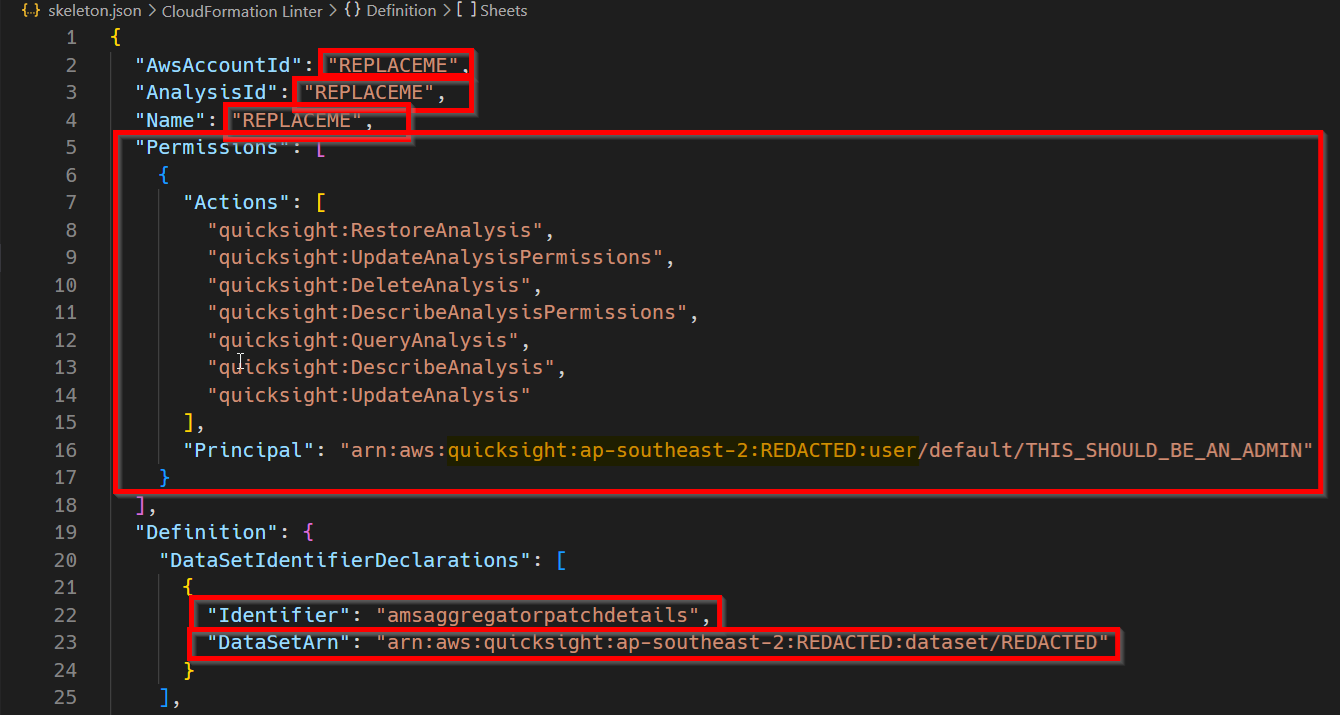
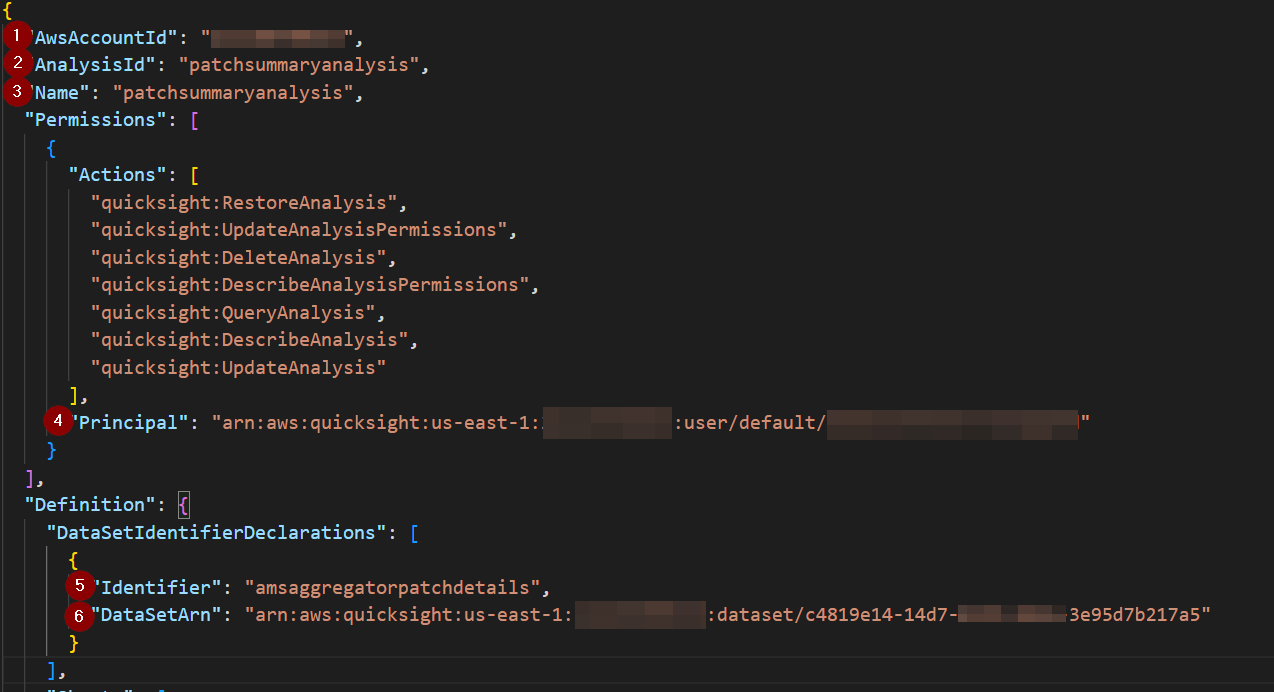
Add additional readme detail and improve screenshots

Changed region(s): [[0.0, 0.0, 1.0, 1.0], [0.1224, 0.9711, 0.1531, 1.0]]

diff --git a/quicksight-examples/patch-details/README.md b/quicksight-examples/patch-details/README.md
@@ -6,7 +6,7 @@ This readme file describes how to create a QuickSight Analysis to visualize AMS 
 
 ## Prerequisites
 
-This readme assumes you have some familiarity with Amazon QuickSight.
+This readme assumes you have some familiarity with Amazon QuickSight, and that you have gone through the [QuickSight setup process](https://docs.aws.amazon.com/quicksight/latest/user/setting-up.html) in your AWS Account and Region where the SSR Aggregator core stack has been deployed.
 
 ## Preview
 
@@ -14,9 +14,23 @@ The following screenshots were taken from QuickSight in order to provide example
 
 ![Analysis Preview](images/000-preview.png)
 
-## Part 1 of 3, create a Data Source in Amazon QuickSight
+## Part 1 of 4, IAM Setup
 
-1. Within QuickSight, select "Datasets" from the navigation pane.
+1. Navigate to the IAM Console, search for your QuickSight Service Role (the default one is pictured, however if you use a custom QuickSight Service role, you should search for your custom role instead).
+
+   ![Search for the QuickSight Service role in the IAM Console](images/003.001-error-troubleshooting.png)
+
+2. Select `Add Permissions` and then select `Attach Policies`
+
+   ![Attach a new IAM Policy](images/003.002-add-policy.png)
+
+3. Search for `AggregatorAthenaPolicy` as pictured, then select the corresponding IAM role, and then choose the `Add Permissions` button.
+
+   ![Search for and attach AggregatorAthenaPolicy](images/003.003-add-permissions.png)
+
+## Part 2 of 4, Create a Data Source in Amazon QuickSight
+
+1. Navigate to Amazon QuickSight in the AWS Console, and select "Datasets" from the navigation pane.
 2. Select `New dataset`.
 
    ![New Data Set](images/001-new-dataset.png)
@@ -25,33 +39,32 @@ The following screenshots were taken from QuickSight in order to provide example
 
    ![Select Athena](images/002-athena.png)
 
-4. Give the Data Source a name (for example, `ams_ssr`), select the `ams-report-aggregator-workgroup`, and select `Create data source`.
+4. Give the Data Source a name (for example, `ams_ssr`), select the `ams-report-aggregator-workgroup`, and select `Validate Connection`. Upon successful validation, select `Create data source`.
 
-   ![Give the Data Source a name](images/003-name-data-source.png)
+   ![Give the Data Source a name](images/003.004-validate-again.png)
 
 5. On the `Choose your table` view, select the `amsaggregatordatabase`, select the `amsaggregatorpatchdetails` Table, and select `Edit/Preview data`.
 
-   ![Give the Data Source a name](images/004-choose-your-table.png)
+   ![Choose your amsaggregatordatabase database and amsaggregatorpatchdetails table](images/004-choose-your-table.png)
 
-6. From the navigation pane's `Fields` section, scroll down until you find fields named `instance_state`, `window_state`, and `reportdate`.
-7. From the menu beside `instance_state` and also beside `window_state`, select the option to `Change data type` from `State` to `String`.
+6. From the navigation pane's `Fields` section
+7. From the menu beside `instance_state` and also beside `window_state`, select the option to `Change data type` from `State` to `String`. If the option is not present, there is no action to take, because QuickSight was able to automatically detect "String" (which is correct).
 
    ![Give the Data Source a name](images/005-change-data-type.png)
 
-8. From the menu beside `reportdate`, select the option to `Change data type` from `String` to `Date`. Specify the date as `yyyy-MM-dd`.
+8. From the menu beside `reportdate`, select the option to `Change data type` from `String` to `Date`. Specify the date format as `yyyy-MM-dd`.
 
    ![Give the Data Source a name](images/006-date-format.png)
 
-9. Note that the name of this Data Set is `amsaggregatorpatchdetails`. If you use a different name, you'll have additional work to do later.
+9. From each menu beside `compliant_critical`, `compliant_high`,`compliant_medium`,`compliant_low`,`compliant_informational`, `compliant_unspecified`, `compliant_total`,`noncompliant_critical`, `noncompliant_high`,`noncompliant_medium`,`noncompliant_low`,`noncompliant_informational`, `noncompliant_unspecified`, `noncompliant_total` select the option to `Change data type` from `String` to `Integer`. If the option does not exist, it means QuickSight has automatically inferred "Integer" as the correct data type.
 
-   ![Give the Data Source a name](images/007-data-set-name.png)
+![Give the Data Source a name](images/006.001-integer-format.png)
 
-10. Click on `Save and Publish`.
-11. After saving, note the ID of your Dataset from your browser URL.
+9. (1) Note that the name of this Data Set is `amsaggregatorpatchdetails`. If you use a different name, you'll have additional work to do later. (2) Click on `Save and Publish`. (3) After saving, note the ID of your Dataset from your browser URL.
 
-    ![Give the Data Source a name](images/008-data-set-id.png)
+   ![Give the Data Source a name](images/007.001-name-save-url.png)
 
-## Part 2 of 3, Edit `skeleton.json`
+## Part 3 of 4, Edit `skeleton.json`
 
 `skeleton.json` is a file that describes how your QuickSight report will look and feel, as well as the underlying data used to visualize the Analysis. You can use `skeleton.json` as an example when building your own QuickSight analysis later on. You can find `skeleton.json` in this repository at this URL
 [https://github.com/aws-samples/ams-self-service-reporting-aggregator/blob/main/quicksight-examples/patch-details/skeleton.json](https://github.com/aws-samples/ams-self-service-reporting-aggregator/blob/main/quicksight-examples/patch-details/skeleton.json)
@@ -64,7 +77,8 @@ The following screenshots were taken from QuickSight in order to provide example
    - **AwsAccountId** – the AWS Account ID you are deploying this analysis into
    - **AnalysisId** – Give your analysis an Id, for example `patchsummaryanalysis`
    - **Name** – Give your analysis a name, for example `patchsummaryanalysis`
-   - **Permissions** – The `skeleton.json` provides an example QuickSight Administrative user. Later, this Administrative Principal will be able to assign permissions to other Principals who need access to this QuickSight analysis.
+   - **Permissions** – The `skeleton.json` provides an example QuickSight Administrative user. Later, this Principal will be able to assign permissions to other Principals who need access to this QuickSight analysis. To retrieve the ARN for your QuickSight Administrator, run the following command `aws quicksight list-users --aws-account-id REPLACE_ME --namespace default`
+     ![List QuickSight Administrative User](images/201.001-admin.png)
    - **Identifier** – This is the name of the DataSet name from Part 1. If you chose a name other than `amsaggregatorpatchdetails`, you'll need to do a find and replace for this value throughout the `skeleton.json`, as there are lots of places where this string needs to exist.
 
      ![Give the Data Source a name](images/202-data-set-name.png)
@@ -72,7 +86,7 @@ The following screenshots were taken from QuickSight in order to provide example
    - **DataSetArn** – This is the ARN for the Data Set you created in Part 1. You will need to construct a full ARN from the ID you copied from the browser URL.
      `arn:aws:quicksight:REPLACE_ME_AWS_REGION:REPLACE_ME_AWS_ACCOUNT_ID:dataset/REPLACE_ME_DATA_SET_ID_FROM_BROWSER_ADDRESS_BAR`
 
-## Part 3 of 3, Creating the template in QuickSight
+## Part 4 of 4, Creating the template in QuickSight
 
 Using the [AWS Command Line Interface (CLI)](https://aws.amazon.com/cli/), run the following command. This command assumes you have adequate QuickSight permissions to execute the [CreateAnalysis API](https://docs.aws.amazon.com/quicksight/latest/APIReference/API_CreateAnalysis.html). Replace `file://./skeleton.json` with the correct path to the `skeleton.json` file you edited during Step 2.
 
@@ -82,9 +96,47 @@ You can monitor your progress with this command
 
 `aws quicksight list-analyses --aws-account-id REPLACE_ME`
 
+![Create using the AWS CLI](images/301-create-analysis.png)
+
+In the event of a failure, you can inspect a failed creation with this command
+
+`aws quicksight describe-analysis --analysis-id patchsummaryanalysis --aws-account-id REPLACE_ME`
+
+You can also delete the analysis with this command
+
+`aws quicksight delete-analysis --analysis-id patchsummaryanalysis --aws-account-id REPLACE_ME`
+
 After the template has been deployed, a new analysis will be visible to the Principal you provided in the `Permissions` step above. You are free to edit this example as you see fit. You may wish to change the graphs, and visualizations (or add new ones).
 
-![Analysis Preview](images/000-preview.png)
+![Newly created analysis](images/301-quicksight-analysis.png)
+
+## Optional Step, Using SPICE to speed up your queries
+
+[SPICE](https://docs.aws.amazon.com/quicksight/latest/user/spice.html) (Super-fast, Parallel, In-memory Calculation Engine) is the robust in-memory engine that Amazon QuickSight uses. It's engineered to rapidly perform advanced calculations and serve data. In Enterprise edition, data stored in SPICE is encrypted at rest.
+
+You can optionally use SPICE to reduce the time taken to query your reports. SPICE increases the cost of QuickSight, therefore before using it please review QuickSight pricing [at this url](https://aws.amazon.com/quicksight/pricing/).
+
+1. Edit your existing `amsaggregatorpatchdetails` data set from QuickSights `Datasets` menu as pictured.
+
+![Edit Exising Data Set](images/500-edit-data-set.png)
+
+2. Change the Query Mode from `Direct Query` to `SPICE` then be sure to `Save and Publish` the Data Set.
+
+![Edit Exising Data Set](images/501-change-query-mode.png)
+
+3. Returning back on the Data Sets page, this time select the `amsaggregatorpatchdetails` data set directly.
+
+![Edit Exising Data Set](images/502-review-refresh-settings.png)
+
+4. Select the `Refresh` tab, and select `Add New Schedule`
+
+![Add New Refresh Schedule](images/503-setup-refresh.png)
+
+5. The optimal schedule for this data set is 22:00 UTC Daily (10pm UTC)
+
+![Add New Refresh Schedule](images/504-refresh-schedule.png)
+
+6. That's it, each day the data will refresh at 22:00 UTC, and your query times will be improved. You should manage your SPICE capacity, and purchase new capacity where needed. You can learn more [on this page](https://docs.aws.amazon.com/quicksight/latest/user/managing-spice-capacity.html).
 
 ## Security
 
